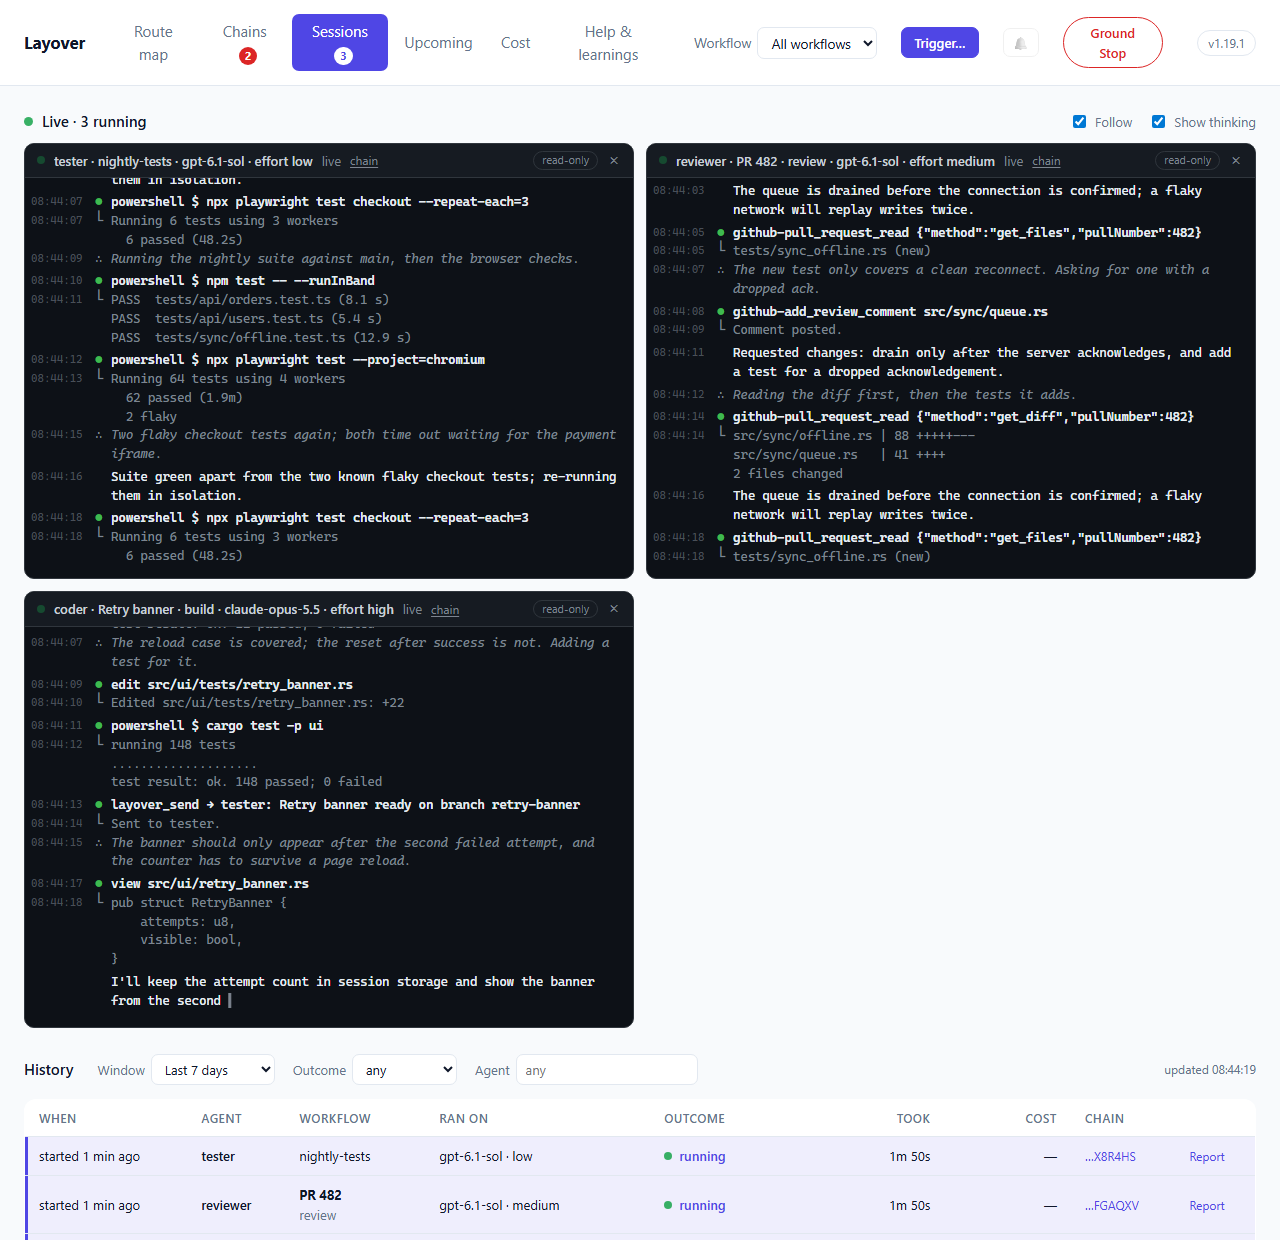
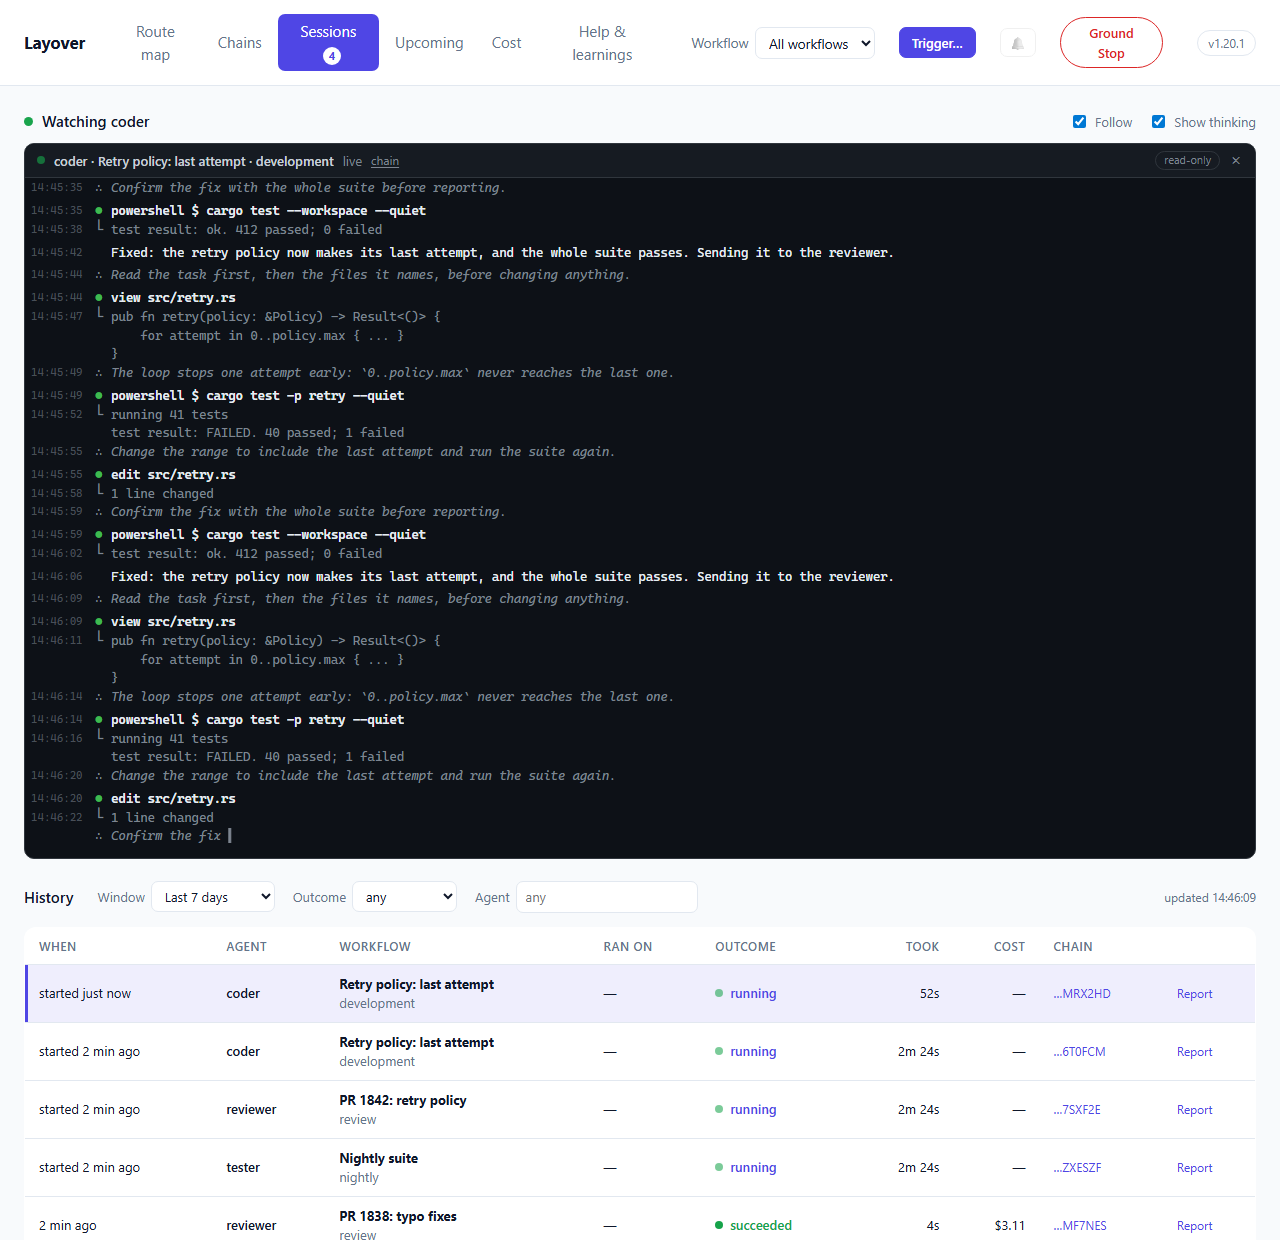
feat: open a session on the Sessions tab only when it is picked
Sessions opened on every session running, live, up to four side by side,
each joined by the next to start. On a busy factory that was four terminals
scrolling above the list a person came to read, more than anyone followed,
and it pushed the history below the fold.

Now nothing opens by itself. The tab is the history, running sessions first,
under a line saying how many are running. Clicking a row opens that one
session above the list, live while it runs or as a replay once it is over;
clicking another replaces it, and x closes it. The address still carries
the session open (#sessions?run=), so a reload, a link, a chain or a report
opens it, and Back closes it. The tiling, the following of new runs, the
set of closed tiles and the Live button are gone.

Checked in a headless browser against a throwaway factory whose stand-in
Copilot CLI streamed events. Nothing opened across refreshes. A running row
opened live and a finished one as a replay, each replacing the last. x
closed it, and nothing came back on the next refresh. The address opened it
and Back closed it. No page errors. The book's screenshot is retaken from
the same run.

diff --git a/crates/layover-dashboard/src/assets/sessions.js b/crates/layover-dashboard/src/assets/sessions.js
@@ -1,88 +1,46 @@
-// Sessions: every run the factory supervises — the ones going now, live, and every one before them.
+// Sessions: every run the factory supervises — the ones going now, and every one before them.
 //
 // One tab for what used to be two. A list of runs and a list of sessions were the same runs, with
-// and without filters, and a session was only ever a run's terminal. So the live view sits on top —
-// every session running now, side by side, each added as it starts — and the history under it is
-// where any other one is picked from, to watch live or replay once it is over.
+// and without filters, and a session was only ever a run's terminal. So the tab is the history,
+// running sessions first, and a session opens above it only when one is picked: live while it
+// runs, a replay once it is over. Nothing opens by itself; several terminals streaming at once was
+// more than anybody read.
 //
 // Uses app.js's helpers (`get`, `el`, `$`, `money`, `duration`, `when`, `whenCell`, `workflowCell`,
 // `scoped`, `openReport`, `updated`, `showView`, `WINDOWS`), router.js's `routeChanged` and
 // `routeExtras`, terminal.js's `Terminal` and chain.js's `openChain`, all inside functions.
 
-// More live terminals than this would hold enough connections open to starve the rest of the page.
-const MAX_TILES = 4;
 const SESSIONS_PAGE = 100;
-// The live view is kept current this often, and the history under it every third time.
+// How many are running is kept current this often, and the history every third time.
 const SESSIONS_EVERY_MS = 5000;
 
-// `picked`: the session somebody chose to watch on its own, or null while the view follows what is
-// running. `running`: what was running when last asked, for the workflow in view. `closed`: live
-// sessions somebody closed, which the next refresh must not put straight back.
+// `open`: the terminal of the session picked, or null while none is. `running`: how many sessions
+// were running when last asked, in the workflow in view.
 const sessions = {
-  terminals: new Map(),
-  picked: null,
-  running: [],
-  closed: new Set(),
+  open: null,
+  running: 0,
   limit: 0,
   timer: null,
   ticks: 0,
 };
 
-// ── The live view ──────────────────────────────────────────────────────────────────────────────
+// ── The session picked ─────────────────────────────────────────────────────────────────────────
 
-function watch(run) {
-  if (sessions.terminals.has(run.run_id)) return;
-  sessions.terminals.set(run.run_id, new Terminal(run, $("#terminals"), forget));
-}
-
-function forget(terminal) {
-  terminal.close();
-  sessions.terminals.delete(terminal.run.run_id);
-  // Closing the one session picked goes back to what is live.
-  if (sessions.picked === terminal.run.run_id) {
-    sessions.picked = null;
-    followLive();
-    routeChanged();
-  } else {
-    sessions.closed.add(terminal.run.run_id);
-  }
-  drawViewer();
-}
-
-function closeAll() {
-  for (const terminal of sessions.terminals.values()) terminal.close();
-  sessions.terminals.clear();
-}
-
-/// Every session running now, side by side: one that starts joins, and one that ends stays until
-/// its place is needed, so how it ended can be read.
-function followLive() {
-  for (const run of sessions.running) {
-    if (sessions.terminals.has(run.run_id) || sessions.closed.has(run.run_id)) continue;
-    if (sessions.terminals.size >= MAX_TILES) {
-      const over = [...sessions.terminals.values()].find((terminal) => terminal.ended);
-      if (!over) break;
-      over.close();
-      sessions.terminals.delete(over.run.run_id);
-    }
-    watch(run);
-  }
-}
-
-/// Watches one session on its own: live while it runs, a replay once it is over.
+/// Watches one session: live while it runs, a replay once it is over.
 function pick(run) {
-  sessions.picked = run.run_id;
-  closeAll();
-  watch(run);
+  if (sessions.open?.run.run_id !== run.run_id) {
+    sessions.open?.close();
+    sessions.open = new Terminal(run, $("#terminals"), unpick);
+  }
   drawViewer();
   routeChanged();
 }
 
-function backToLive() {
-  sessions.picked = null;
-  sessions.closed.clear();
-  closeAll();
-  followLive();
+/// Closes the session open, leaving the history.
+function unpick() {
+  if (!sessions.open) return;
+  sessions.open.close();
+  sessions.open = null;
   drawViewer();
   routeChanged();
 }
@@ -101,36 +59,33 @@ function sessionsOf(agent) {
   showView("sessions");
 }
 
-/// The heading over the terminals, and which rows of the history are on screen.
+/// The heading over the viewer, and which row of the history is open.
 function drawViewer() {
-  const running = sessions.running.length;
-  const picked = sessions.picked && sessions.terminals.get(sessions.picked);
+  const open = sessions.open;
   const heading = $("#watch-heading");
-  if (picked) {
-    const live = picked.run.status === "running" && !picked.ended;
+  if (open) {
+    const live = open.run.status === "running" && !open.ended;
     heading.replaceChildren(
-      el("span", `dot ${live ? "running" : picked.run.status}`),
-      el("span", "", `${live ? "Watching" : "Replaying"} ${picked.run.agent}`),
+      el("span", `dot ${live ? "running" : open.run.status}`),
+      el("span", "", `${live ? "Watching" : "Replaying"} ${open.run.agent}`),
     );
   } else {
+    const running = sessions.running;
     heading.replaceChildren(
       el("span", `dot ${running ? "running" : ""}`),
-      el("span", "", running ? `Live · ${running} running` : "Nothing running"),
+      el("span", "", running ? `${running} running` : "Nothing running"),
+      el(
+        "span",
+        "muted",
+        running
+          ? "Pick a session below to watch it live, or any other to replay it."
+          : "Pick a session below to replay it.",
+      ),
     );
-    if (running > MAX_TILES) {
-      heading.append(el("span", "muted", `${MAX_TILES} shown; pick another below to watch it`));
-    }
   }
-  const back = $("#watch-live");
-  back.hidden = !sessions.picked;
-  back.textContent = running ? `← Live · ${running} running` : "← Live";
-
-  const shown = sessions.terminals.size;
-  $("#terminals").classList.toggle("tiled", shown > 1);
-  $("#terminals").classList.toggle("crowded", shown > 2);
-  $("#sessions-empty").hidden = shown > 0;
+  $("#watch-options").hidden = !open;
   document.querySelectorAll("#sessions-table tbody tr").forEach((row) => {
-    row.classList.toggle("open", sessions.terminals.has(row.dataset.run));
+    row.classList.toggle("open", row.dataset.run === open?.run.run_id);
   });
 }
 
@@ -143,8 +98,7 @@ function setLiveBadge(count) {
 async function loadLive() {
   try {
     const params = scoped(new URLSearchParams({ status: "running", window: "last_24h", limit: "50" }));
-    sessions.running = (await get(`/runs?${params}`)).runs;
-    if (!sessions.picked) followLive();
+    sessions.running = (await get(`/runs?${params}`)).runs.length;
     drawViewer();
   } catch {
     // The history under it says when the Tower cannot be read; one line of that is enough.
@@ -312,21 +266,20 @@ function startSessions() {
   for (const id of ["#sessions-window", "#sessions-status"]) $(id).addEventListener("change", fresh);
   $("#sessions-agent").addEventListener("input", fresh);
   $("#sessions-more").addEventListener("click", () => loadHistory(true));
-  $("#watch-live").addEventListener("click", backToLive);
   $("#sessions-thinking").addEventListener("change", (event) => {
     $("#terminals").classList.toggle("hide-think", !event.target.checked);
   });
 
   // The session picked is part of the address, so a link to one opens it.
   routeExtras.sessions = (params) => {
-    if (!params) return { run: sessions.picked ?? "" };
+    if (!params) return { run: sessions.open?.run.run_id ?? "" };
     const wanted = params.get("run");
     if (!wanted) {
-      if (sessions.picked) backToLive();
+      unpick();
       return undefined;
     }
-    if (wanted !== sessions.picked) {
-      get(`/runs/${encodeURIComponent(wanted)}`).then(pick).catch(backToLive);
+    if (wanted !== sessions.open?.run.run_id) {
+      get(`/runs/${encodeURIComponent(wanted)}`).then(pick).catch(unpick);
     }
     return undefined;
   };

diff --git a/crates/layover-dashboard/src/assets/style.css b/crates/layover-dashboard/src/assets/style.css
@@ -553,25 +553,24 @@ tr.opens:hover td .open { color: var(--accent); }
 
 .reserve p { margin: 0.45rem 0 0; }
 
-/* Sessions: everything running, live, over the history of every run.
+/* Sessions: the history of every run, and above it the one session picked from it.
  *
- * The terminals are dark whatever the page's theme, because they are terminals: the point is that
- * a session reads the way the agent's CLI would read in one. Each line is a grid of time, mark and
- * text, so a tool's output indents under its call the way the CLI draws it. They are sized to leave
- * the history in sight below them: what is running is the first thing on the tab, not all of it.
+ * The terminal is dark whatever the page's theme, because it is a terminal: the point is that a
+ * session reads the way the agent's CLI would read in one. Each line is a grid of time, mark and
+ * text, so a tool's output indents under its call the way the CLI draws it. It is sized to leave
+ * the history in sight below it.
  */
 /* A badge with nothing to count says nothing: its `display` would otherwise beat `hidden`. */
 .badge[hidden] { display: none; }
 .badge.live { background: var(--ok); }
-.watch { margin-bottom: 26px; }
-.watch-bar { display: flex; align-items: center; gap: 12px; flex-wrap: wrap; margin-bottom: 10px; }
+.watch { margin-bottom: 22px; }
+.watch-bar { display: flex; align-items: center; gap: 12px; flex-wrap: wrap; }
 .watch-heading { display: flex; align-items: center; gap: 9px; margin: 0; font-size: 15px; font-weight: 600; text-transform: none; letter-spacing: 0; color: var(--ink); }
 .watch-heading .muted { font-size: 13px; font-weight: 400; color: var(--muted); }
 .watch-heading .dot { width: 9px; height: 9px; }
 .watch-options { display: flex; align-items: center; gap: 16px; margin-left: auto; font-size: 13px; color: var(--muted); }
+.watch-options[hidden] { display: none; }
 .watch-options label { display: flex; gap: 6px; align-items: center; }
-.watch-empty { margin: 0; padding: 22px; border: 1px dashed var(--line); border-radius: 12px; text-align: center; color: var(--muted); font-size: 14px; }
-.watch-empty[hidden] { display: none; }
 h2.history-head { margin: 0 6px 0 0; font-size: 15px; font-weight: 600; text-transform: none; letter-spacing: 0; color: var(--ink); }
 #sessions-table tr.open td { background: color-mix(in srgb, var(--accent) 9%, transparent); }
 #sessions-table tr.open td:first-child { box-shadow: inset 3px 0 0 var(--accent); }
@@ -585,10 +584,7 @@ td.outcome .dot { margin-right: 7px; vertical-align: 1px; }
 @keyframes pulse { 50% { opacity: 0.35; } }
 @media (prefers-reduced-motion: reduce) { .dot.running { animation: none; } }
 
-#terminals { display: grid; gap: 12px; }
-#terminals.tiled { grid-template-columns: repeat(auto-fit, minmax(460px, 1fr)); }
-#terminals.crowded { grid-template-columns: repeat(2, minmax(0, 1fr)); }
-@media (max-width: 960px) { #terminals.tiled, #terminals.crowded { grid-template-columns: 1fr; } }
+#terminals:not(:empty) { margin-top: 10px; }
 .terminal { --term-bg: #0d1117; --term-ink: #c9d1d9; --term-dim: #7d8590; display: flex; flex-direction: column; background: var(--term-bg); color: var(--term-ink); border: 1px solid #30363d; border-radius: 10px; overflow: hidden; min-width: 0; }
 .term-head { display: flex; align-items: center; gap: 9px; padding: 7px 12px; background: #161b22; border-bottom: 1px solid #30363d; font-size: 13px; }
 .term-title { font-weight: 600; overflow: hidden; text-overflow: ellipsis; white-space: nowrap; min-width: 0; flex: 0 1 auto; }
@@ -600,8 +596,6 @@ td.outcome .dot { margin-right: 7px; vertical-align: 1px; }
 .term-close { border: 0; background: none; color: var(--term-dim); font-size: 17px; line-height: 1; cursor: pointer; padding: 0 2px; }
 .term-close:hover { color: var(--term-ink); }
 .term-body { height: min(60vh, 680px); min-height: 260px; overflow: auto; padding: 8px 0 12px; font: 12.5px/1.5 ui-monospace, "Cascadia Mono", "SF Mono", Consolas, monospace; }
-#terminals.tiled .term-body { height: min(52vh, 560px); }
-#terminals.crowded .term-body { height: min(36vh, 400px); min-height: 220px; }
 .line { display: grid; grid-template-columns: 64px 16px 1fr; padding: 0 12px 0 6px; }
 .line .t { color: #484f58; font-size: 11px; padding-top: 1px; }
 .line .m { color: var(--term-dim); }

diff --git a/crates/layover-dashboard/src/assets/index.html b/crates/layover-dashboard/src/assets/index.html
@@ -143,16 +143,11 @@
     <div class="watch">
       <div class="watch-bar">
         <h2 id="watch-heading" class="watch-heading"></h2>
-        <button id="watch-live" class="btn" type="button" hidden
-          title="Back to every session running now, side by side">← Live</button>
-        <span class="watch-options">
+        <span id="watch-options" class="watch-options" hidden>
           <label><input id="sessions-follow" type="checkbox" checked> Follow</label>
           <label><input id="sessions-thinking" type="checkbox" checked> Show thinking</label>
         </span>
       </div>
-      <p id="sessions-empty" class="watch-empty">
-        Every session running shows here, live, as it starts. Pick any one below to replay it.
-      </p>
       <div id="terminals"></div>
     </div>
 

diff --git a/crates/layover-dashboard/src/assets/terminal.js b/crates/layover-dashboard/src/assets/terminal.js
@@ -19,8 +19,8 @@ const MARKS = {
   raw: "",
 };
 
-// Far more than anyone scrolls back through, and few enough that a page tiling four sessions for
-// an afternoon stays quick.
+// Far more than anyone scrolls back through, and few enough that a session watched for an
+// afternoon stays quick.
 const KEEP_LINES = 4000;
 
 class Terminal {

diff --git a/book/src/dashboard-runs.md b/book/src/dashboard-runs.md
@@ -5,30 +5,30 @@ they cost, and how long any of it is kept.
 
 ## Sessions
 
-![The Sessions tab: three sessions running live side by side — a tester running the nightly suite, a reviewer requesting changes on a pull request, and a coder mid-sentence — each as its CLI prints it, with its model and effort; and under them the history, starting with the three running sessions](./assets/dashboard-sessions.png)
+![The Sessions tab: one session picked, a coder fixing a retry policy, watched live as its CLI prints it, with its model and workflow in the terminal's header; and under it the history, the running sessions first, with the picked one marked](./assets/dashboard-sessions.png)
 
 A session is one supervised run, seen the way its agent's CLI would show it in a terminal. The tab
-is in two parts: what is running now, live, on top, and every session before it underneath.
+is the history of every session, and a session opens above it when you pick one: live while it
+runs, a replay once it is over. Nothing opens by itself. A line at the top says how many are running
+now, and the green number on the tab is how many runs are alive.
 
-**Live, on top.** Every session running now, side by side — up to four — each as its CLI prints
-it: the first lines of what it was asked, its reasoning, every tool it called with a few lines of
-what came back, and what it said. Text the model is still writing appears as it arrives, and is
-replaced by the finished message. A session that starts joins the others; one that ends says how —
-`succeeded`, `failed`, `timed out` — and stays until its place is needed. Close one with **×** and
-it stays closed. Each terminal's header names its agent, its chain and workflow, the model and
-effort it runs at, and links to its **chain** and, once it is over, its **report**. The green number
-on the tab is how many runs are alive.
+**The history.** Every session, newest first, filterable by window, outcome and agent, a hundred at a
+time with **Show 100 more** below. Running ones come first, with a pulsing dot. Click any row and it
+opens above the list — live while it runs, a replay from the start once it is over, which is how you
+see the route an agent took to its conclusion rather than only the conclusion. Clicking another row
+opens that one instead, and the one open is marked in the list. **Report** opens what the agent
+wrote about its run, and the chain column opens its chain: the end of its identifier, where
+identifiers differ, with the chain's name in the tooltip. **Ran on** is the model and effort the
+run's command line gave it; hover it for the context too.
 
-**History, underneath.** Every session, newest first, filterable by window, outcome and agent, a
-hundred at a time with **Show 100 more** below. Running ones come first, with a pulsing dot. Click
-any row and it opens in the viewer on its own — live while it runs, a replay from the start once it
-is over, which is how you see the route an agent took to its conclusion rather than only the
-conclusion. **← Live** goes back to everything running. The sessions on screen are marked in the
-list. **Report** opens what the agent wrote about its run, and the chain column opens its chain:
-the end of its identifier, where identifiers differ, with the chain's name in the tooltip.
-**Ran on** is the model and effort the run's command line gave it; hover it for the context too.
+**The session open** shows what its CLI prints: the first lines of what it was asked, its reasoning,
+every tool it called with a few lines of what came back, and what it said. Text the model is still
+writing appears as it arrives, and is replaced by the finished message. A session that ends says how
+— `succeeded`, `failed`, `timed out` — and stays open, so how it ended can be read. Its header names
+its agent, its chain and workflow, the model and effort it runs at, and links to its **chain** and,
+once it is over, its **report**. **×** closes it.
 
-**Show thinking** hides the reasoning when you only want the actions; **Follow** keeps each terminal
+**Show thinking** hides the reasoning when you only want the actions; **Follow** keeps the terminal
 at its latest line. The session you picked is in the page's address, `#sessions?run=run_…`, so a
 reload keeps it and a link opens it. A chain's own page, its timeline and a report open a session
 here too.

diff --git a/docs/decisions/history-and-dashboard.md b/docs/decisions/history-and-dashboard.md
@@ -68,10 +68,9 @@ and **Sessions**, a list of the runs going now or ended in the last day beside a
 one picked. The list was the table again with fewer columns and no filters, and a session was only
 ever a run's terminal — every way into one, from the table, a chain or a report, opened the other
 tab. Two tabs over the same runs made a person choose between seeing what was happening and finding
-what had happened. So there is one, named for what a person watches: what is running now on top,
-live, side by side — the tab's first purpose, kept on screen before anything is picked — and the
-history under it is where any other session is picked from, to watch or replay in the same place.
-The table keeps every filter and column it had, and `#runs?…` addresses open it.
+what had happened. So there is one, named for what a person watches, and the history is where any
+session is picked from, to watch live or replay in the same place. The table keeps every filter and
+column it had, and `#runs?…` addresses open it.
 
 **Why the dashboard asks the Tower when a schedule next fires.** A cron expression could be
 evaluated anywhere, but an `every` schedule counts from when the Tower started, and a tick held by
@@ -158,3 +157,12 @@ from each pipeline's entry by name, since the configuration keeps pipelines by n
 their written order would change a public type for no difference on any factory that exists. And a
 spawn is walked like any route, so it stays right of its spawner unless it closes a loop with
 another workflow's routes on the whole-factory map, where it is drawn back like any route that does.
+
+**Why a session opens only when it is picked.** Sessions opened on every session running, live, up
+to four side by side, each joined by the next to start. On a busy factory that was four terminals
+scrolling at once above the list a person had come to read, more than anybody followed, and it
+pushed the history below the fold. A person watches one session at a time, and usually one they
+went looking for. So nothing opens by itself: the tab is the history, running sessions first, with
+a line saying how many are running, and one session opens above it when it is picked, live or as a
+replay (decided with the maintainer, 2026-11-10). Watching one at a time also keeps a single stream
+open per page, rather than up to four.

diff --git a/CHANGELOG.md b/CHANGELOG.md
@@ -28,6 +28,14 @@ status](README.md#project-status).
   that is already installed alone, and asks before it changes `PATH`. See
   [Letting an agent install it](https://kotkaz.github.io/layover-project/install.html#letting-an-agent-install-it).
 
+### Changed
+
+- **Sessions opens a session only when you pick one.** The tab no longer opens every session
+  running, live, up to four side by side. It is the history of every run, the running ones first,
+  under a line saying how many are running; click a row and that one session opens above the list,
+  live while it runs or as a replay once it is over. **×** closes it, and the **← Live** button is
+  gone.
+
 ### Fixed
 
 - **The install guide's checked install could not check anything on Windows.** It read the

diff --git a/book/src/dashboard.md b/book/src/dashboard.md
@@ -105,9 +105,9 @@ letting more be booked is not a kill switch.
 
 ## Watching agents work
 
-**Sessions** shows every run going now, live, side by side, each as its CLI prints it — and under
-it the history of every run, any of which opens there to watch or replay. It is read-only: nothing
-there reaches the agent. See [Sessions](./dashboard-runs.md#sessions).
+**Sessions** is the history of every run, the ones going now first. Pick one and it opens above the
+list as its CLI prints it, live while it runs or as a replay once it is over; nothing opens until
+you pick. It is read-only: nothing there reaches the agent. See [Sessions](./dashboard-runs.md#sessions).
 
 ## What starts next
 
